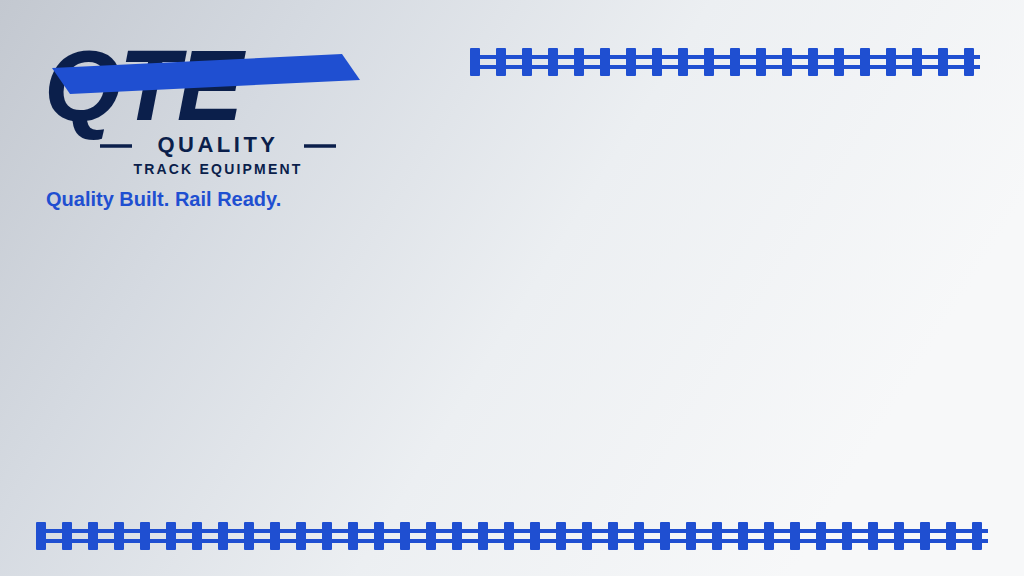
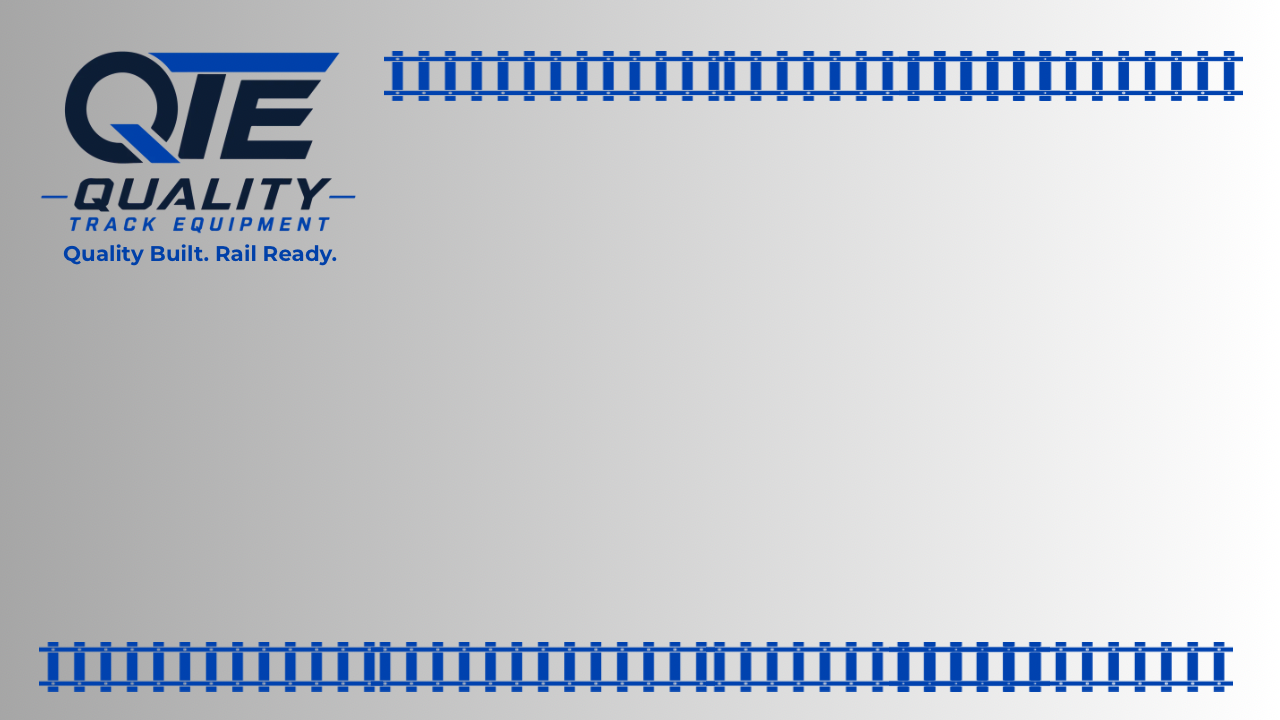
Replace the app background with Nick's original artwork.
The PNG is copied unchanged from the supplied file. Spacing on the sign-in card and quote step keeps the real logo and tagline visible.

diff --git a/src/components/AppHeader.tsx b/src/components/AppHeader.tsx
@@ -15,7 +15,7 @@ export function AppHeader({
   onSignOut: () => void;
 }) {
   return (
-    <header className="relative z-20 flex items-center justify-between gap-3 px-4 py-3 min-[900px]:absolute min-[900px]:inset-x-0 min-[900px]:top-0 min-[900px]:justify-end min-[900px]:bg-transparent min-[900px]:px-8 min-[900px]:pt-32">
+    <header className="relative z-20 flex items-center justify-between gap-3 px-4 py-3 min-[900px]:absolute min-[900px]:inset-x-0 min-[900px]:top-0 min-[900px]:justify-end min-[900px]:bg-transparent min-[900px]:px-8 min-[900px]:pt-40">
       <BrandLogo className="h-10 min-[900px]:hidden" />
       <div className="flex flex-wrap items-center justify-end gap-x-3 gap-y-2 rounded-xl bg-white/95 px-2 py-1 text-sm shadow-sm ring-1 ring-white/80">
         {mode === "demo" && (

diff --git a/src/components/SignInForm.tsx b/src/components/SignInForm.tsx
@@ -69,7 +69,7 @@ export function SignInForm({
 
   return (
     <main className="qte-app-bg">
-      <div className="mx-auto flex min-h-screen w-full items-center px-4 py-8 min-[900px]:pl-[42vw] min-[900px]:pr-10 min-[1200px]:pr-16">
+      <div className="mx-auto flex min-h-screen w-full items-center px-4 py-8 min-[900px]:pl-[46vw] min-[900px]:pr-10 min-[1200px]:pr-16">
         <div className="w-full max-w-lg rounded-2xl bg-white/95 p-6 shadow-card ring-1 ring-white/70 sm:p-8" data-testid="sign-in">
           <BrandLogo className="mb-4 h-16 min-[900px]:hidden" />
           <h1 className="font-display text-4xl font-semibold leading-none text-navy md:mt-0">Sales quoting</h1>

diff --git a/src/components/QuoteWizard.tsx b/src/components/QuoteWizard.tsx
@@ -193,7 +193,7 @@ export function QuoteWizard() {
     <WizardProvider value={api}>
       <div className="qte-app-bg text-navy">
         <AppHeader username={session.username} tenant={session.tenant} mode={session.mode} onSignOut={signOut} />
-        <main className="mx-auto flex w-full max-w-5xl flex-col gap-5 px-4 pb-28 pt-2 min-[900px]:pt-[38vh]">
+        <main className="mx-auto flex w-full max-w-5xl flex-col gap-5 px-4 pb-28 pt-2 min-[900px]:pt-[42vh]">
           <p className="text-sm font-semibold text-navy">
             Step {step + 1} of {STEPS.length}
             <span className="sr-only">. Saved on this device.</span>

diff --git a/README.md b/README.md
@@ -145,7 +145,7 @@ If a later step fails, the screen lists the document numbers already created and
 
 Brand files live in [`public/brand/`](public/brand/):
 
-- `app-background.png` — full-page background (1024×576). It includes the official logo, the tagline “Quality Built. Rail Ready.”, and the railroad tracks. Wide screens use it full-page (`cover`, anchored to the left so the logo stays in frame, `fixed`). Screens under 900px use a plain gray gradient so the form stays usable, and show `logo.svg` instead of the background logo.
+- `app-background.png` — full-page background (Nick's artwork, 1280×720). It includes the official logo, the tagline “Quality Built. Rail Ready.”, and the railroad tracks. Wide screens use it full-page (`cover`, anchored to the left so the logo stays in frame, `fixed`). Screens under 900px use a plain gray gradient so the form stays usable, and show `logo.svg` instead of the background logo.
 - `logo.svg` — wordmark used on small screens, where the background image is not shown
 - `mark.svg` — compact QTE mark
 
